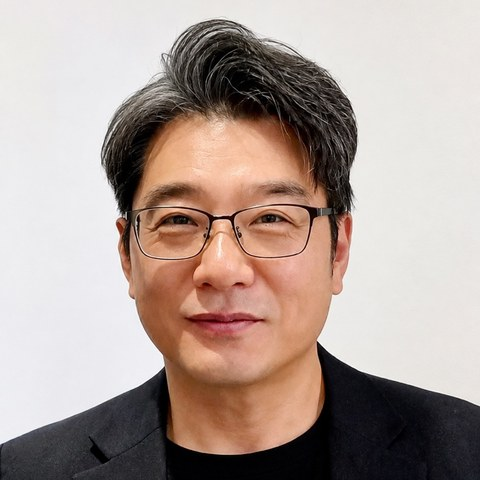
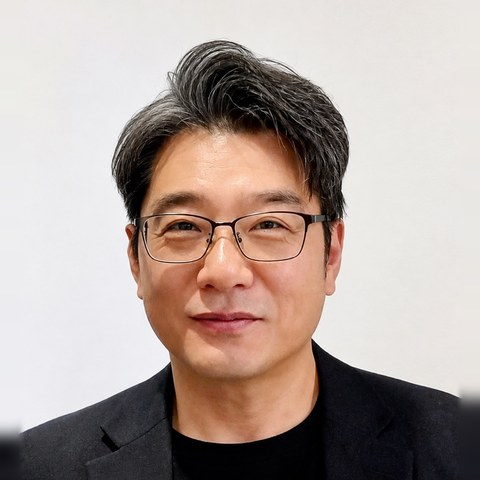
교회소개: 담임목사·전도사 사진 얼굴 크기 맞춤
Claude-Session: https://claude.ai/code/session_0148xjk2b9puS3g6WWgEub1z

diff --git a/about.html b/about.html
@@ -482,7 +482,7 @@ a:focus-visible,button:focus-visible{outline:2px solid #0360C2;outline-offset:2p
 </div>
 <div class="pastor-pair">
 <div class="pastor">
-<img src="assets/home/pastor-upper.jpg?v=2" alt="담임목사 박동준" class="pastor-photo" loading="lazy">
+<img src="assets/home/pastor-upper.jpg?v=3" alt="담임목사 박동준" class="pastor-photo" loading="lazy">
 <div class="pastor-body">
 <span class="pastor-role">담임목사 · SENIOR PASTOR</span>
 <h3 class="pastor-name">박동준 <small>목사</small></h3>
@@ -495,7 +495,7 @@ a:focus-visible,button:focus-visible{outline:2px solid #0360C2;outline-offset:2p
 </div>
 </div>
 <div class="pastor">
-<img src="assets/home/limdohyung.jpg?v=3" alt="전도사 임도형" class="pastor-photo" loading="lazy">
+<img src="assets/home/limdohyung.jpg?v=4" alt="전도사 임도형" class="pastor-photo" loading="lazy">
 <div class="pastor-body">
 <span class="pastor-role">전도사 · MINISTER</span>
 <h3 class="pastor-name">임도형 <small>전도사</small></h3>
